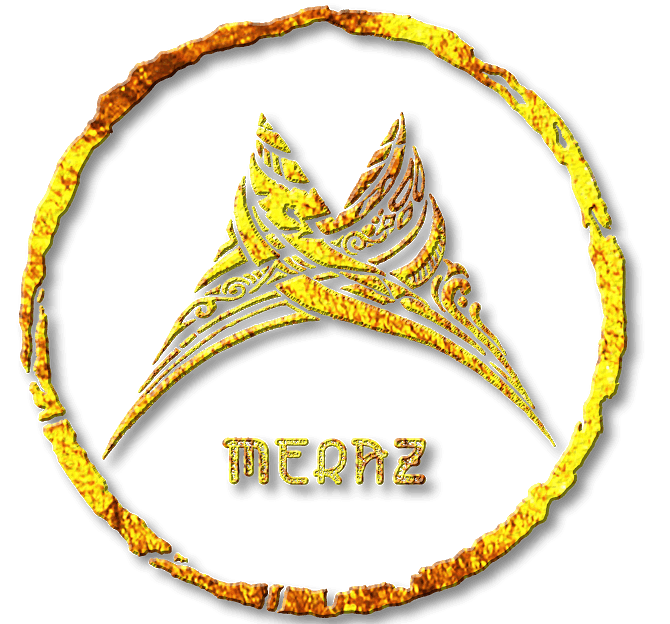
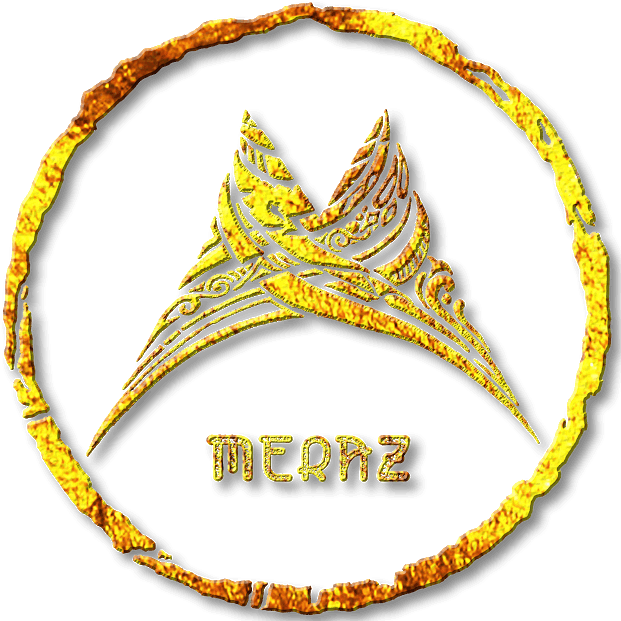
minor design🎨 changes to hero

diff --git a/src/app/hero/hero.component.scss b/src/app/hero/hero.component.scss
@@ -3,10 +3,11 @@ img {
 	top: 40%;
 	left: 50%;
 	transform: translate(-50%, -50%);
-	width: 500px;
+	width: 400px;
+	max-width: 85%;
 }
-@media(max-width:500px){
-	img{
+@media (max-width: 1100px) {
+	img {
 		width: 350px;
 	}
 }
@@ -18,7 +19,7 @@ img {
 	padding: 5px 15px;
 	font-family: 'Metal Mania';
 	background-image: url('../../assets/gold-texture.jpg');
-
+	margin-bottom: 20px;
 }
 .hero {
 	width: 100%;
@@ -28,7 +29,6 @@ img {
 	scroll-snap-align: start;
 }
 
-
 .bottom {
 	width: fit-content;
 	margin: 0px;
@@ -37,4 +37,5 @@ img {
 	left: 50%;
 	transform: translate(-50%, 0px);
 	min-width: 50%;
+	max-width: 100%;
 }

diff --git a/src/app/hero/hero.component.html b/src/app/hero/hero.component.html
@@ -1,6 +1,5 @@
 <div class="hero" style="font-size: 2rem;">
-		<img src='../../assets/otherThanRealm.png' alt=''/>
-
+	<img src="../../assets/otherThanRealm.png" alt="" />
 
 	<div class="bottom">
 		<button

diff --git a/src/app/timer/timer.component.scss b/src/app/timer/timer.component.scss
@@ -75,7 +75,7 @@
 	padding: 5px;
 }
 .box > span {
-	font-size: 1.2rem;
+	font-size: 1.1rem;
 }
 
 @font-face {
